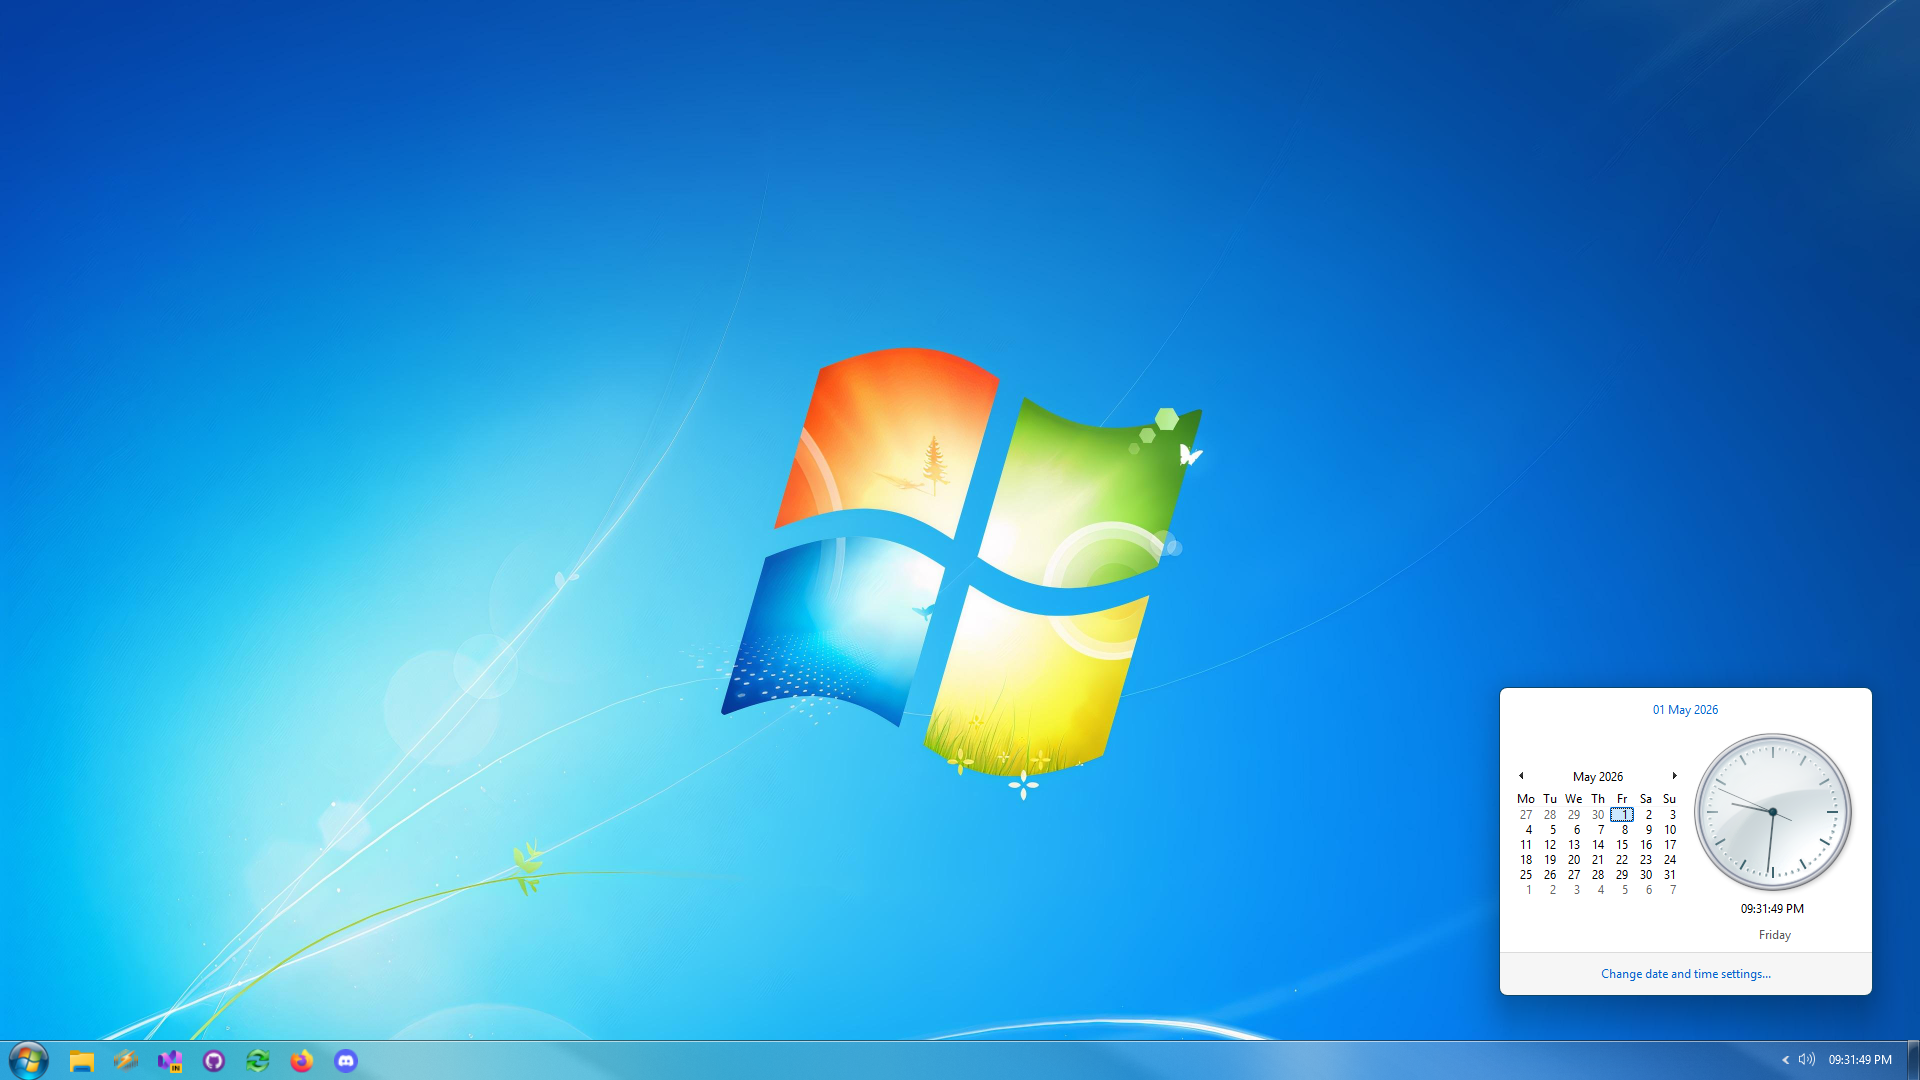
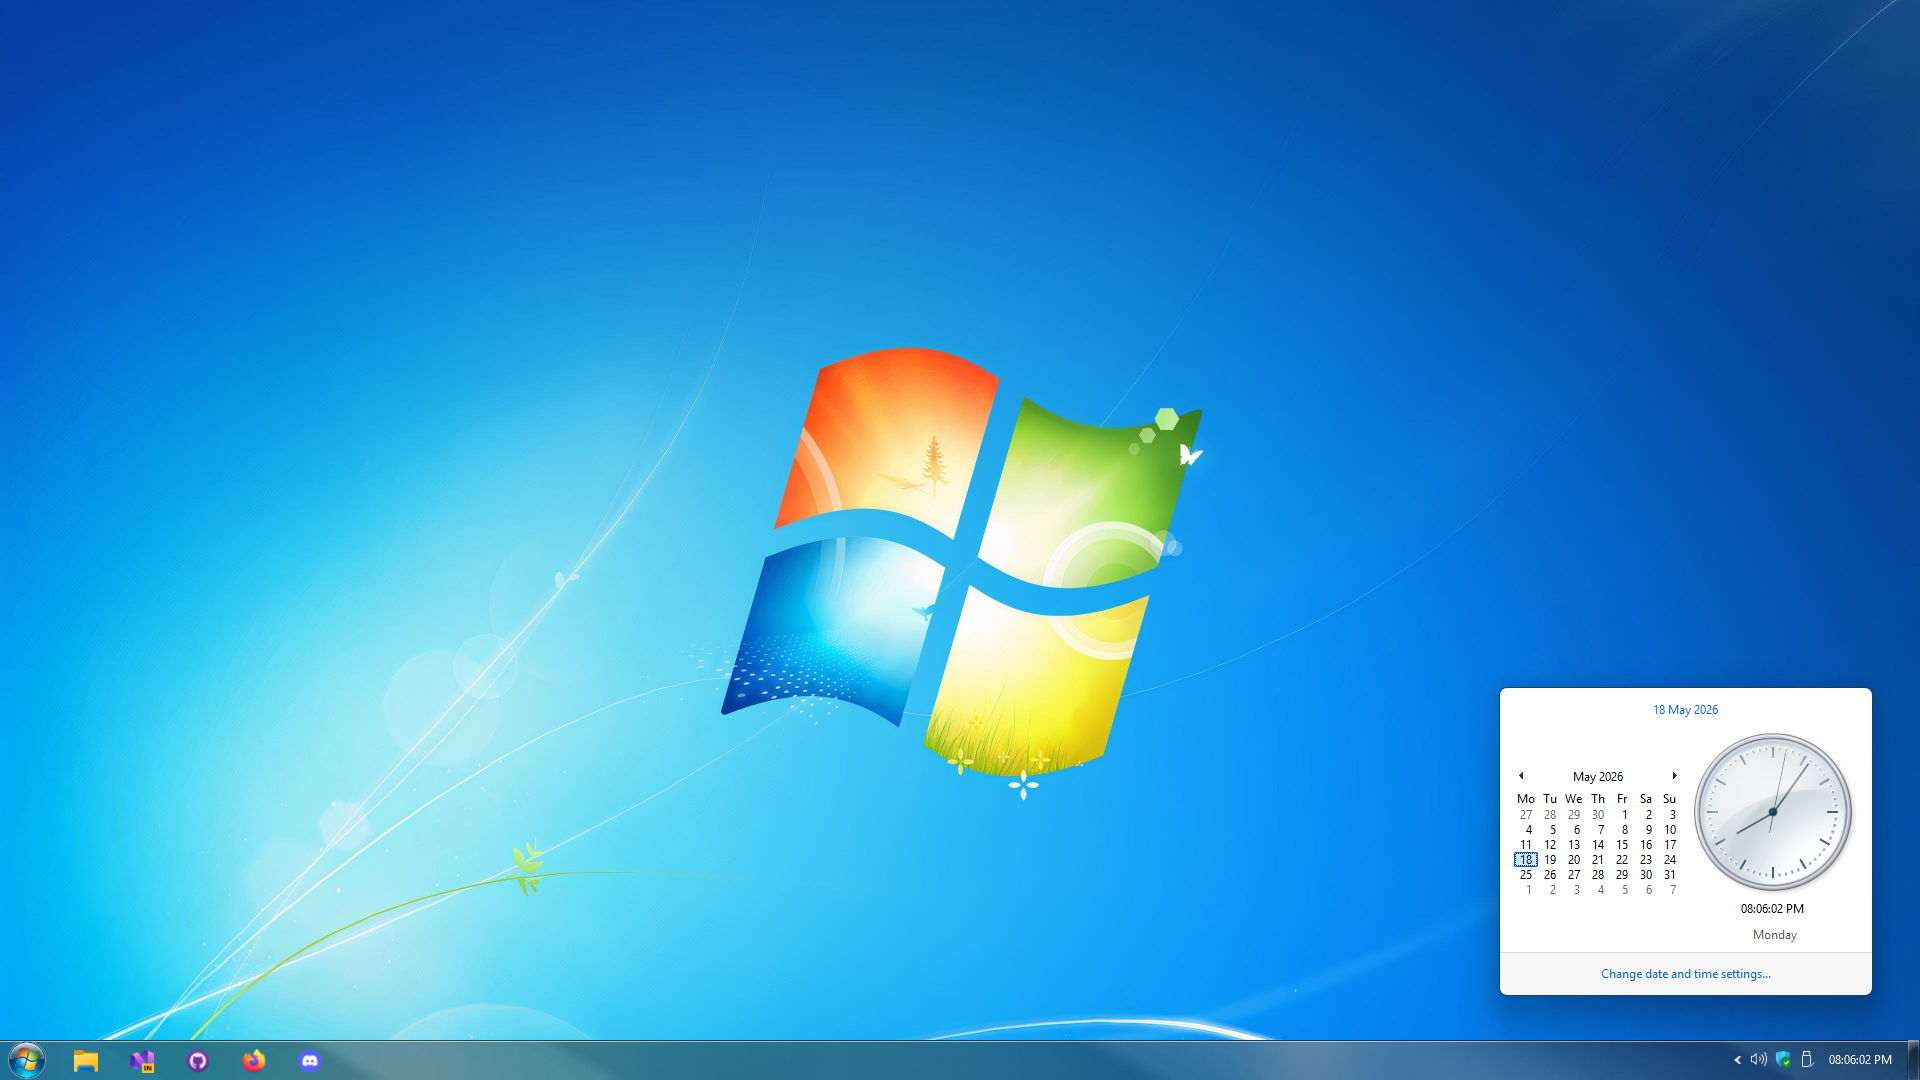
Taskbar, and Taskbar Button Improvements
- Noticed that when the Shown Labels is turned on in Windows 7, the taskbar itself goes darker, allowing the user to read the text on the taskbar button.
I have managed to create the new Win7TaskbarDark.png that does this and looks very close to Windows 7 now.
- In the "TaskButtonActive" x:key, I've used brushes like TaskButtonOuterBorder instead of TaskButtonOuterBorderActive, due to it looking different to Windows 7. Now it looks closer when selecting a taskbar button.
- Updated images.
- BUG: the image and text on the taskbar button goes down and right a bit, possibly a margin issue? Update in next commit.

diff --git a/Themes/Windows 7 Aero - Shown Labels.xaml b/Themes/Windows 7 Aero - Shown Labels.xaml
@@ -9,7 +9,7 @@
     <system:Boolean x:Key="UseFloatingStartButton">True</system:Boolean>
     <Thickness x:Key="TaskButtonMargin" Right="2" />
     <FontWeight x:Key="SetTimeMenuItemWeight">Normal</FontWeight>
-    <BitmapImage x:Key="TaskbarImage" UriSource="../Resources/win7taskbar.png" />
+    <BitmapImage x:Key="TaskbarImage" UriSource="../Resources/win7taskbardark.png" />
     <BitmapImage x:Key="ShowDesktopImage" UriSource="../Resources/win7showdesktop.png" />
     <BitmapImage x:Key="TrayToggleIcon" UriSource="../Resources/win7traytoggleicon.png" />
     <ImageBrush x:Key="TaskbarBackground"
@@ -637,20 +637,19 @@
                             Padding="0,1,0,1"
                             Name="ButtonBorder">
                         <Border BorderThickness="1"
-                                BorderBrush="{DynamicResource TaskButtonOuterBorderActive}"
+                                BorderBrush="{DynamicResource TaskButtonOuterBorder}"
                                 CornerRadius="3"
                                 x:Name="ButtonOuterBorder">
                             <Border BorderThickness="1"
-                                    BorderBrush="{DynamicResource TaskButtonInnerBorderActive}"
                                     Background="{DynamicResource TaskButtonBackgroundActive}"
                                     CornerRadius="3"
                                     x:Name="ButtonInnerBorder">
                                 <Border BorderThickness="0,1,1,0"
-                                        BorderBrush="{DynamicResource TaskButtonInnerTopRightBorderActive}"
+                                        BorderBrush="{DynamicResource TaskButtonInnerTopRightBorder}"
                                         CornerRadius="0,3,0,0"
                                         x:Name="ButtonInnerTopRightBorder">
                                     <Border BorderThickness="1,0,0,1"
-                                            BorderBrush="{DynamicResource TaskButtonInnerBottomLeftBorderActive}"
+                                            BorderBrush="{DynamicResource TaskButtonInnerBottomLeftBorder}"
                                             CornerRadius="3"
                                             x:Name="ButtonInnerBottomLeftBorder">
                                         <ContentPresenter Margin="7,4,5,2"
